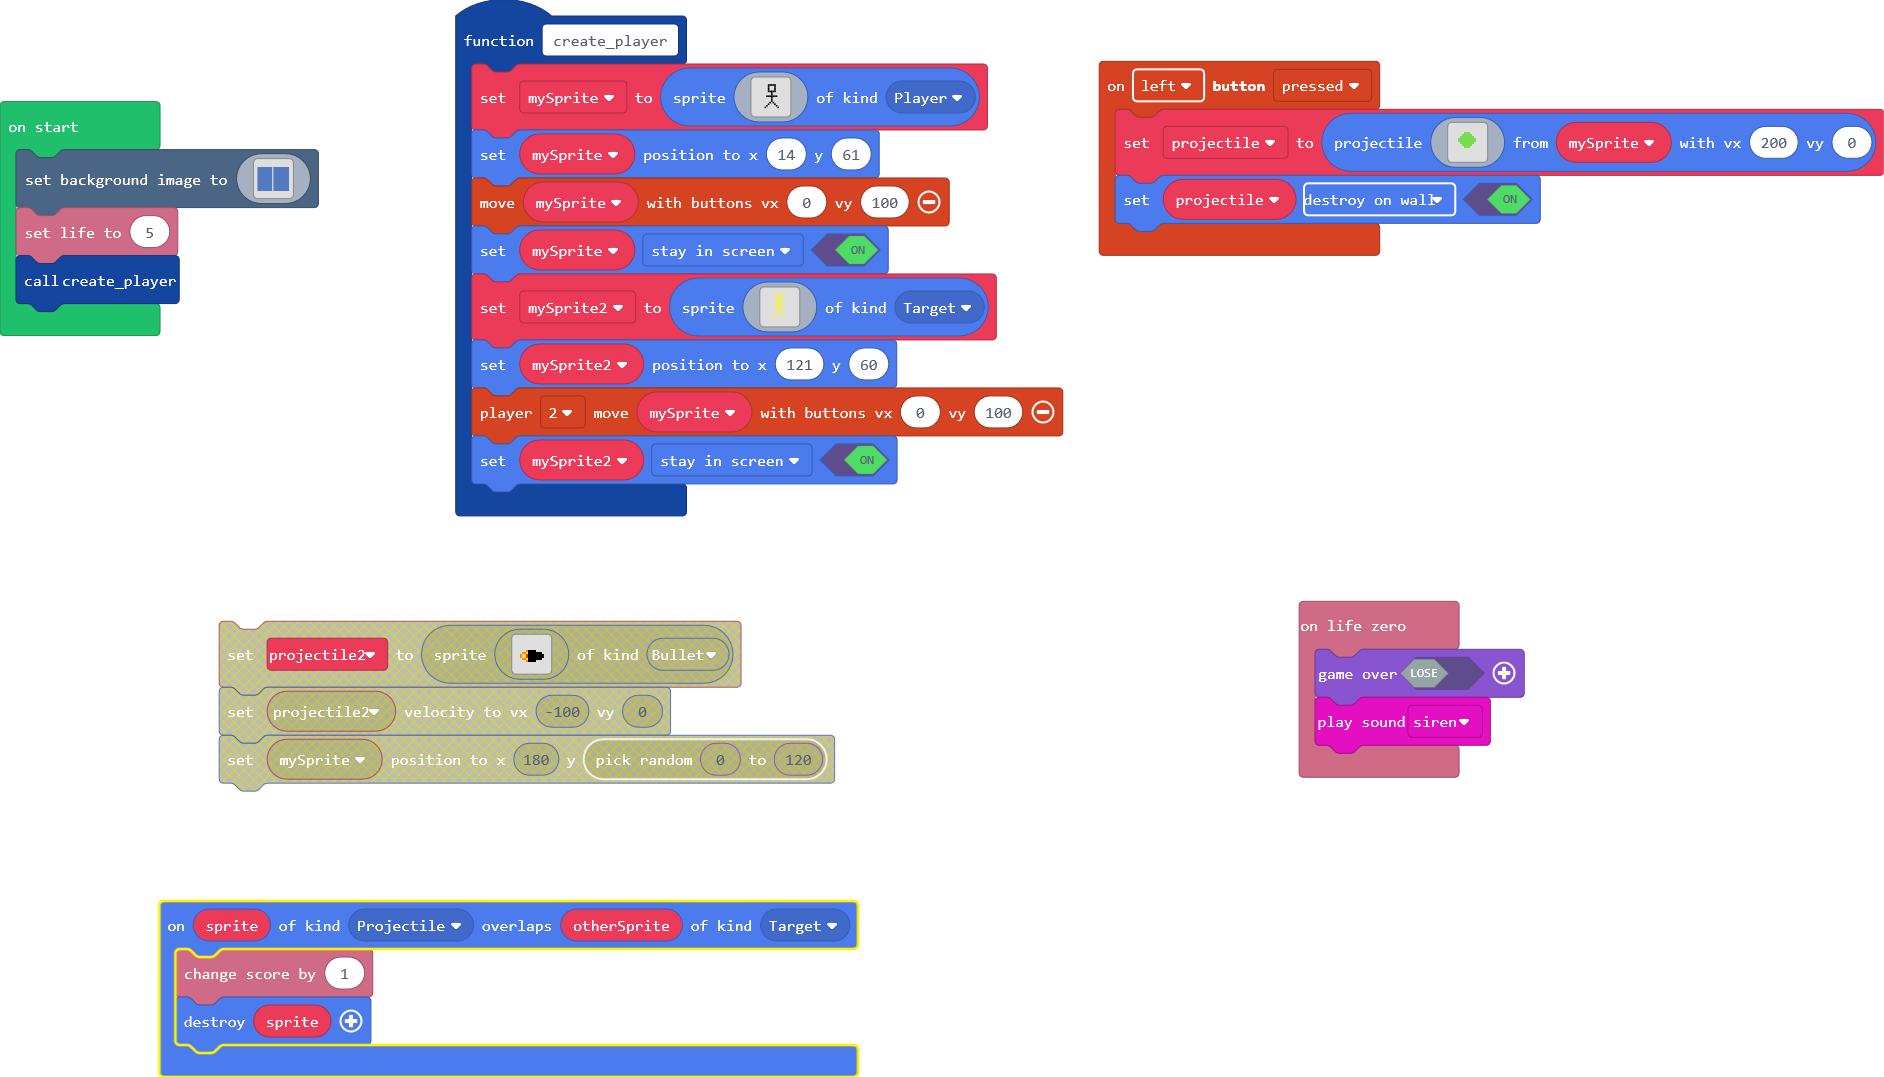
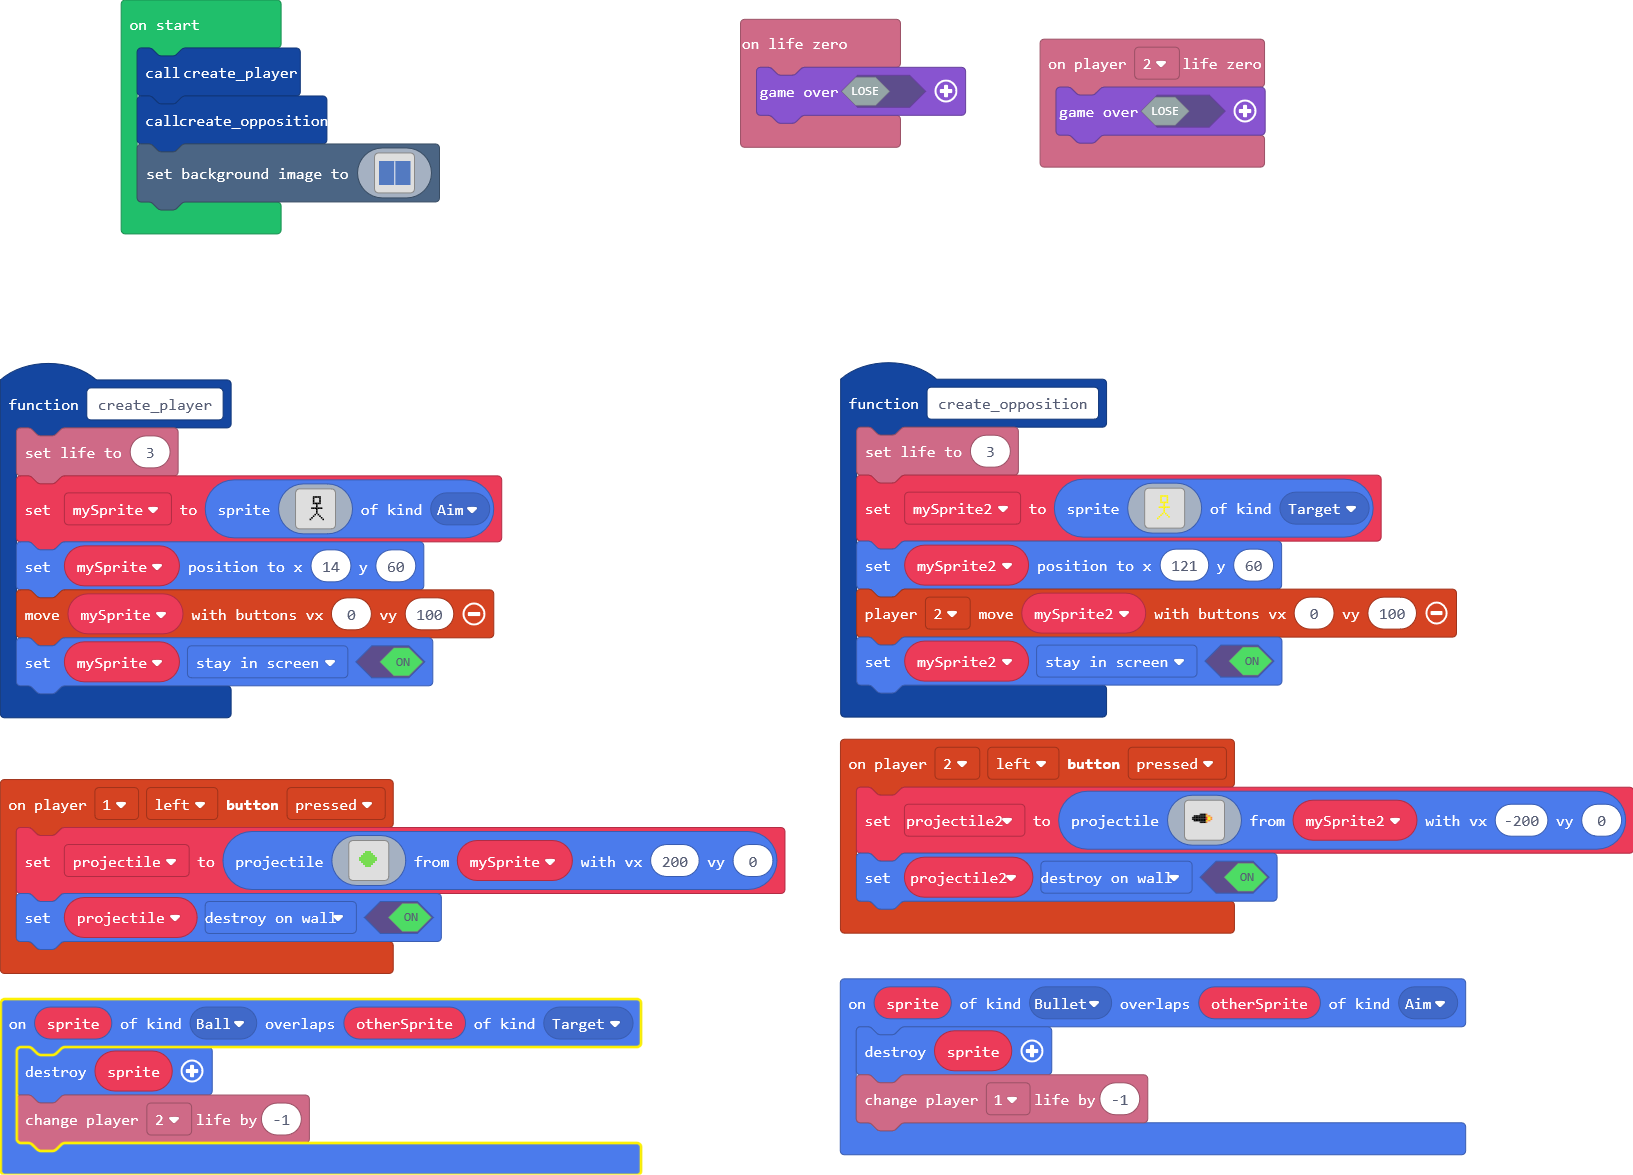
Added second player commands and projectile commands and lives.

diff --git a/main.ts b/main.ts
@@ -1,33 +1,11 @@
 namespace SpriteKind {
     export const Target = SpriteKind.create()
     export const Bullet = SpriteKind.create()
+    export const Ball = SpriteKind.create()
+    export const Aim = SpriteKind.create()
 }
-function create_player () {
-    mySprite = sprites.create(img`
-. . . . . . . . . . . . . . . . . . . . 
-. . . . . . . . . . . . . . . . . . . . 
-. . . . . . . . f f f f f . . . . . . . 
-. . . . . . . . f . . . f . . . . . . . 
-. . . . . . . . f . . . f . . . . . . . 
-. . . . . . . . f . . . f . . . . . . . 
-. . . . . . . . f f f f f . . . . . . . 
-. . . . . . . . . . f . . . . . . . . . 
-. . . . . . . . . . f . . . . . . . . . 
-. . . . . . . f f f f f f f . . . . . . 
-. . . . . . . . . . f . . . . . . . . . 
-. . . . . . . . . . f . . . . . . . . . 
-. . . . . . . . . . f . . . . . . . . . 
-. . . . . . . . . f . f . . . . . . . . 
-. . . . . . . . f . . . f . . . . . . . 
-. . . . . . . f . . . . . f . . . . . . 
-. . . . . . f . . . . . . . f . . . . . 
-. . . . . . . . . . . . . . . . . . . . 
-. . . . . . . . . . . . . . . . . . . . 
-. . . . . . . . . . . . . . . . . . . . 
-`, SpriteKind.Player)
-    mySprite.setPosition(14, 61)
-    controller.moveSprite(mySprite, 0, 100)
-    mySprite.setFlag(SpriteFlag.StayInScreen, true)
+function create_opposition () {
+    info.setLife(3)
     mySprite2 = sprites.create(img`
 . . . . . . . . . . . . . . . . . . . . 
 . . . . . . . . . . . . . . . . . . . . 
@@ -51,10 +29,77 @@ function create_player () {
 . . . . . . . . . . . . . . . . . . . . 
 `, SpriteKind.Target)
     mySprite2.setPosition(121, 60)
-    controller.player2.moveSprite(mySprite, 0, 100)
+    controller.player2.moveSprite(mySprite2, 0, 100)
     mySprite2.setFlag(SpriteFlag.StayInScreen, true)
 }
-controller.left.onEvent(ControllerButtonEvent.Pressed, function () {
+sprites.onOverlap(SpriteKind.Ball, SpriteKind.Target, function (sprite, otherSprite) {
+    sprite.destroy()
+    info.player2.changeLifeBy(-1)
+})
+info.player2.onLifeZero(function () {
+    game.over(false)
+})
+sprites.onOverlap(SpriteKind.Bullet, SpriteKind.Aim, function (sprite, otherSprite) {
+    sprite.destroy()
+    info.player1.changeLifeBy(-1)
+})
+controller.player2.onButtonEvent(ControllerButton.Left, ControllerButtonEvent.Pressed, function () {
+    projectile2 = sprites.createProjectileFromSprite(img`
+. . . . . . . . . . . . . . . . . . . . 
+. . . . . . . . . . . . . . . . . . . . 
+. . . . . . . . . . . . . . . . . . . . 
+. . . . . . . . . . . . . . . . . . . . 
+. . . . . . . . . . . . . . . . . . . . 
+. . . . . . . . . . . . . . . . . . . . 
+. . . . . . . f f f f 4 . . . . . . . . 
+. . . f f f f f f f f 5 4 4 . . . . . . 
+. . f f f f f f f f f 2 5 5 4 . . . . . 
+. . f f f f f f f f f 2 5 5 4 . . . . . 
+. . . f f f f f f f f 5 4 4 . . . . . . 
+. . . . . . . f f f f 4 . . . . . . . . 
+. . . . . . . . . . . . . . . . . . . . 
+. . . . . . . . . . . . . . . . . . . . 
+. . . . . . . . . . . . . . . . . . . . 
+. . . . . . . . . . . . . . . . . . . . 
+. . . . . . . . . . . . . . . . . . . . 
+. . . . . . . . . . . . . . . . . . . . 
+. . . . . . . . . . . . . . . . . . . . 
+. . . . . . . . . . . . . . . . . . . . 
+`, mySprite2, -200, 0)
+    projectile2.setFlag(SpriteFlag.DestroyOnWall, true)
+})
+function create_player () {
+    info.setLife(3)
+    mySprite = sprites.create(img`
+. . . . . . . . . . . . . . . . . . . . 
+. . . . . . . . . . . . . . . . . . . . 
+. . . . . . . . f f f f f . . . . . . . 
+. . . . . . . . f . . . f . . . . . . . 
+. . . . . . . . f . . . f . . . . . . . 
+. . . . . . . . f . . . f . . . . . . . 
+. . . . . . . . f f f f f . . . . . . . 
+. . . . . . . . . . f . . . . . . . . . 
+. . . . . . . . . . f . . . . . . . . . 
+. . . . . . . f f f f f f f . . . . . . 
+. . . . . . . . . . f . . . . . . . . . 
+. . . . . . . . . . f . . . . . . . . . 
+. . . . . . . . . . f . . . . . . . . . 
+. . . . . . . . . f . f . . . . . . . . 
+. . . . . . . . f . . . f . . . . . . . 
+. . . . . . . f . . . . . f . . . . . . 
+. . . . . . f . . . . . . . f . . . . . 
+. . . . . . . . . . . . . . . . . . . . 
+. . . . . . . . . . . . . . . . . . . . 
+. . . . . . . . . . . . . . . . . . . . 
+`, SpriteKind.Aim)
+    mySprite.setPosition(14, 60)
+    controller.moveSprite(mySprite, 0, 100)
+    mySprite.setFlag(SpriteFlag.StayInScreen, true)
+}
+info.onLifeZero(function () {
+    game.over(false)
+})
+controller.player1.onButtonEvent(ControllerButton.Left, ControllerButtonEvent.Pressed, function () {
     projectile = sprites.createProjectileFromSprite(img`
 . . . . . . . . . . . . . . . . 
 . . . . . . . . . . . . . . . . 
@@ -75,17 +120,12 @@ controller.left.onEvent(ControllerButtonEvent.Pressed, function () {
 `, mySprite, 200, 0)
     projectile.setFlag(SpriteFlag.DestroyOnWall, true)
 })
-sprites.onOverlap(SpriteKind.Projectile, SpriteKind.Target, function (sprite, otherSprite) {
-    info.changeScoreBy(1)
-    sprite.destroy()
-})
-info.onLifeZero(function () {
-    game.over(false)
-    music.siren.play()
-})
 let projectile: Sprite = null
-let mySprite2: Sprite = null
 let mySprite: Sprite = null
+let projectile2: Sprite = null
+let mySprite2: Sprite = null
+create_player()
+create_opposition()
 scene.setBackgroundImage(img`
 8 8 8 8 8 8 8 8 8 8 8 8 8 8 8 8 8 8 8 8 8 8 8 8 8 8 8 8 8 8 8 8 8 8 8 8 8 8 8 8 8 8 8 8 8 8 8 8 8 8 8 8 8 8 8 8 8 8 8 8 8 8 8 8 8 8 8 8 8 8 8 8 8 8 8 8 8 8 8 8 8 8 8 8 8 8 8 8 8 8 8 8 8 8 8 8 8 8 8 8 8 8 8 8 8 8 8 8 8 8 8 8 8 8 8 8 8 8 8 8 8 8 8 8 8 8 8 8 8 8 8 8 8 8 8 8 8 8 8 8 8 8 8 8 8 8 8 8 8 8 8 8 8 8 8 8 8 8 8 8 
 8 8 8 8 8 8 8 8 8 8 8 8 8 8 8 8 8 8 8 8 8 8 8 8 8 8 8 8 8 8 8 8 8 8 8 8 8 8 8 8 8 8 8 8 8 8 8 8 8 8 8 8 8 8 8 8 8 8 8 8 8 8 8 8 8 8 8 8 8 8 8 8 8 8 8 8 8 1 1 1 1 1 8 8 8 8 8 8 8 8 8 8 8 8 8 8 8 8 8 8 8 8 8 8 8 8 8 8 8 8 8 8 8 8 8 8 8 8 8 8 8 8 8 8 8 8 8 8 8 8 8 8 8 8 8 8 8 8 8 8 8 8 8 8 8 8 8 8 8 8 8 8 8 8 8 8 8 8 8 8 
@@ -208,5 +248,3 @@ scene.setBackgroundImage(img`
 8 8 8 8 8 8 8 8 8 8 8 8 8 8 8 8 8 8 8 8 8 8 8 8 8 8 8 8 8 8 8 8 8 8 8 8 8 8 8 8 8 8 8 8 8 8 8 8 8 8 8 8 8 8 8 8 8 8 8 8 8 8 8 8 8 8 8 8 8 8 8 8 8 8 8 8 8 1 1 1 1 1 8 8 8 8 8 8 8 8 8 8 8 8 8 8 8 8 8 8 8 8 8 8 8 8 8 8 8 8 8 8 8 8 8 8 8 8 8 8 8 8 8 8 8 8 8 8 8 8 8 8 8 8 8 8 8 8 8 8 8 8 8 8 8 8 8 8 8 8 8 8 8 8 8 8 8 8 8 8 
 8 8 8 8 8 8 8 8 8 8 8 8 8 8 8 8 8 8 8 8 8 8 8 8 8 8 8 8 8 8 8 8 8 8 8 8 8 8 8 8 8 8 8 8 8 8 8 8 8 8 8 8 8 8 8 8 8 8 8 8 8 8 8 8 8 8 8 8 8 8 8 8 8 8 8 8 8 1 1 1 1 1 8 8 8 8 8 8 8 8 8 8 8 8 8 8 8 8 8 8 8 8 8 8 8 8 8 8 8 8 8 8 8 8 8 8 8 8 8 8 8 8 8 8 8 8 8 8 8 8 8 8 8 8 8 8 8 8 8 8 8 8 8 8 8 8 8 8 8 8 8 8 8 8 8 8 8 8 8 8 
 `)
-info.setLife(5)
-create_player()
